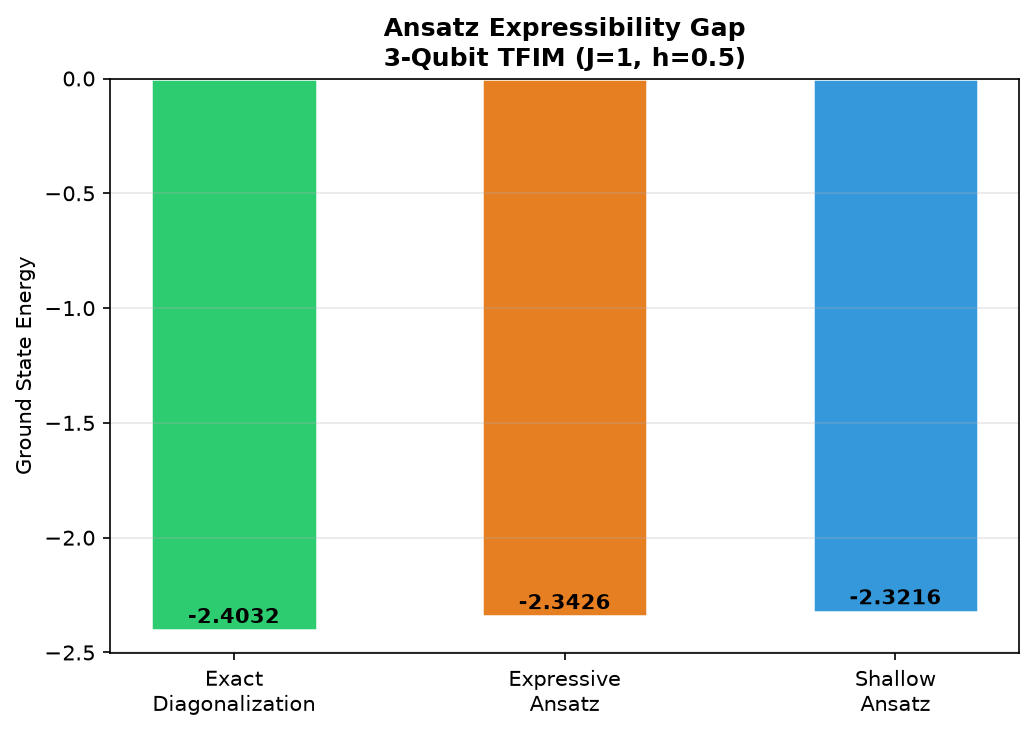
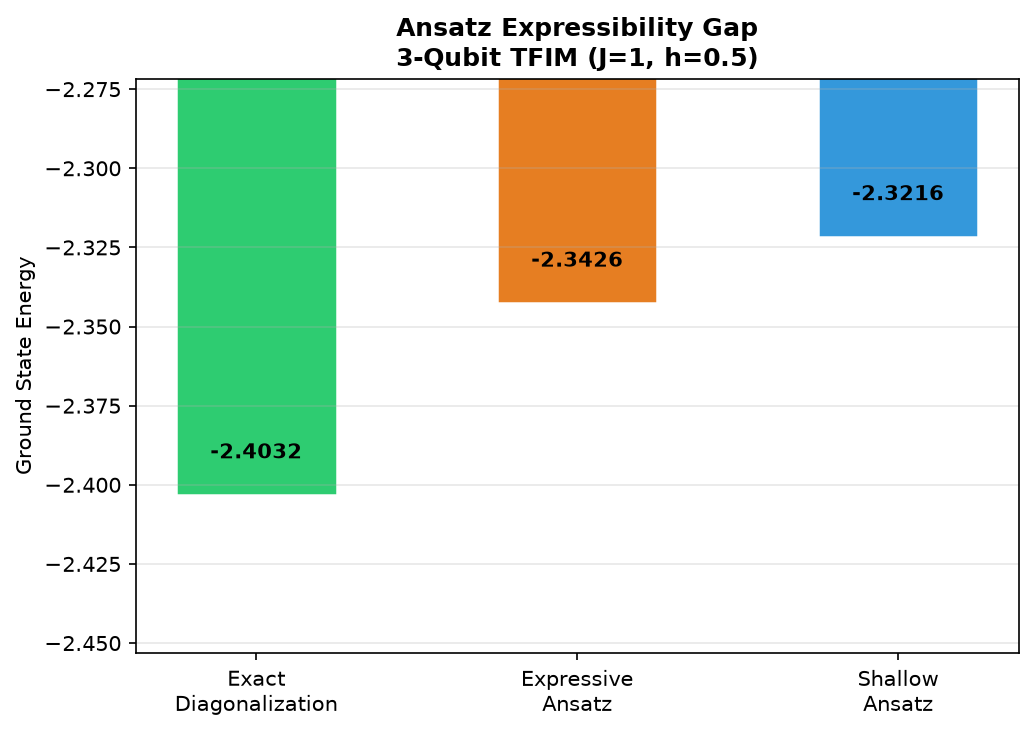
Add run_expriment script and result plots

diff --git a/run_experiment.py b/run_experiment.py
@@ -69,7 +69,7 @@ colors = ['#2ecc71', '#e67e22', '#3498db']
 bars = ax.bar(labels, values, color=colors, width=0.5, edgecolor='white', linewidth=1.2)
 ax.set_ylabel("Ground State Energy")
 ax.set_title("Ansatz Expressibility Gap\n3-Qubit TFIM (J=1, h=0.5)", fontweight='bold')
-ax.set_ylim([min(values) - 0.1, 0])
+ax.set_ylim([min(values) - 0.05, max(values) + 0.05])
 ax.grid(True, axis='y', alpha=0.3)
 
 for bar, val in zip(bars, values):